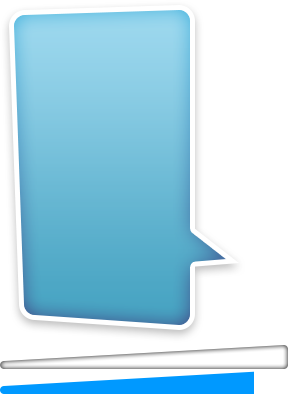
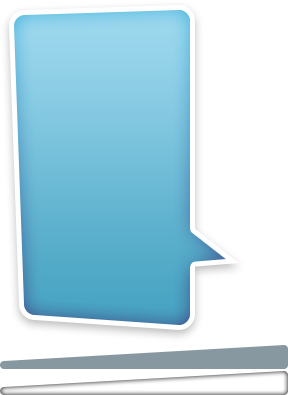
a

diff --git a/bin/js/ui/layaUI.max.all.js b/bin/js/ui/layaUI.max.all.js
@@ -108,7 +108,7 @@ var ui;
         };
         return StageInfoUI;
     }(View));
-    StageInfoUI.uiView = { "type": "View", "props": { "width": 1895, "height": 145 }, "child": [{ "type": "Image", "props": { "y": 9, "x": 406, "skin": "ui/Level/bg02.png", "name": "bg01" } }, { "type": "Image", "props": { "y": 21, "x": 419, "skin": "ui/Level/bg01.png", "name": "bg02" } }, { "type": "Image", "props": { "y": 8, "x": 386, "skin": "ui/Level/costumeicon.png", "name": "Costume" } }, { "type": "ProgressBar", "props": { "y": 20, "x": 719, "width": 642, "var": "progressBar", "value": 0, "skin": "ui/Level/progress.png", "height": 45 } }, { "type": "Image", "props": { "y": 6, "x": 704, "skin": "ui/Level/gold.png", "name": "JB" } }, { "type": "Image", "props": { "y": 42, "x": 1026, "var": "starLeft", "skin": "ui/Level/starYellow.png", "gray": true, "anchorY": 0.5, "anchorX": 0.5 } }, { "type": "Image", "props": { "y": 42, "x": 1205, "var": "starMid", "skin": "ui/Level/starYellow.png", "gray": true, "anchorY": 0.5, "anchorX": 0.5 } }, { "type": "Image", "props": { "y": 42, "x": 1333, "var": "starRight", "skin": "ui/Level/starYellow.png", "gray": true, "anchorY": 0.5, "anchorX": 1 } }, { "type": "Image", "props": { "y": 8, "x": 1759, "var": "pause", "skin": "ui/Level/btPause.png" } }, { "type": "Image", "props": { "y": 8, "x": 11, "skin": "ui/Level/dayBg.png" }, "child": [{ "type": "Clip", "props": { "y": 56, "x": 38, "var": "day", "skin": "ui/Level/numWhite.png", "index": 1, "clipX": 10 } }] }] };
+    StageInfoUI.uiView = { "type": "View", "props": { "width": 1895, "height": 145 }, "child": [{ "type": "Image", "props": { "y": 9, "x": 406, "skin": "ui/Level/bg02.png", "name": "bg01" } }, { "type": "Image", "props": { "y": 21, "x": 419, "skin": "ui/Level/bg01.png", "name": "bg02" } }, { "type": "Image", "props": { "y": 8, "x": 386, "skin": "ui/Level/costumeicon.png", "name": "Costume" } }, { "type": "ProgressBar", "props": { "y": 20, "x": 719, "width": 642, "var": "progressBar", "skin": "ui/Level/progress.png", "height": 45 } }, { "type": "Image", "props": { "y": 6, "x": 704, "skin": "ui/Level/gold.png", "name": "JB" } }, { "type": "Image", "props": { "y": 42, "x": 1026, "var": "starLeft", "skin": "ui/Level/starYellow.png", "gray": true, "anchorY": 0.5, "anchorX": 0.5 } }, { "type": "Image", "props": { "y": 42, "x": 1205, "var": "starMid", "skin": "ui/Level/starYellow.png", "gray": true, "anchorY": 0.5, "anchorX": 0.5 } }, { "type": "Image", "props": { "y": 42, "x": 1333, "var": "starRight", "skin": "ui/Level/starYellow.png", "gray": true, "anchorY": 0.5, "anchorX": 1 } }, { "type": "Image", "props": { "y": 8, "x": 1759, "var": "pause", "skin": "ui/Level/btPause.png" } }, { "type": "Image", "props": { "y": 8, "x": 11, "skin": "ui/Level/dayBg.png" }, "child": [{ "type": "Clip", "props": { "y": 56, "x": 38, "var": "day", "skin": "ui/Level/numWhite.png", "index": 1, "clipX": 10 } }] }] };
     ui.StageInfoUI = StageInfoUI;
 })(ui || (ui = {}));
 (function (ui) {

diff --git a/bin/index.html b/bin/index.html
@@ -44,12 +44,14 @@
 	<!--自定义的js(src文件夹下)文件自动添加到下面jsfile模块标签里面里-->
 	<!--删除标签，ide不会自动添加js文件，请谨慎操作-->
 	<!--jsfile--startTag-->
+	<script src="js/Utils.js"></script>
 	<script src="js/stage/UpgradeManager.js"></script>
 	<script src="js/stage/StageManager.js"></script>
 	<script src="js/network/Http.js"></script>
+	<script src="js/Loading.js"></script>
 	<script src="js/event/Observer.js"></script>
-	<script src="js/event/Eventinit.js"></script>
 	<script src="js/event/EventKey.js"></script>
+	<script src="js/event/Eventinit.js"></script>
 	<script src="js/event/Emitter.js"></script>
 	<script src="js/config/ConfigWorld.js"></script>
 	<script src="js/config/ConfigStage.js"></script>
@@ -59,8 +61,6 @@
 	<script src="js/config/ConfigItemMerge.js"></script>
 	<script src="js/config/ConfigItem.js"></script>
 	<script src="js/config/ConfigCustomer.js"></script>
-	<script src="js/Utils.js"></script>
-	<script src="js/Loading.js"></script>
 	<script src="js/stage/CashBag.js"></script>
 	<script src="js/stage/CoffeeMachine.js"></script>
 	<script src="js/stage/Crisper.js"></script>

diff --git a/bin/js/stage/Customer.js b/bin/js/stage/Customer.js
@@ -57,7 +57,7 @@ var Customer = (function (_super) {
             bar.skin = "customer/progress_patientShadow.png";
             bar.pos(this.bubble.width - 100, this.bubble.height - 30);
             bar.value = this.value;
-            bar.rotation = 270;
+            //bar.rotation = 270;
             bar.sizeGrid = "0,0,0,0,1";
             this.bar = bar;
             Laya.timer.loop(1000, this, this.updateValue);
